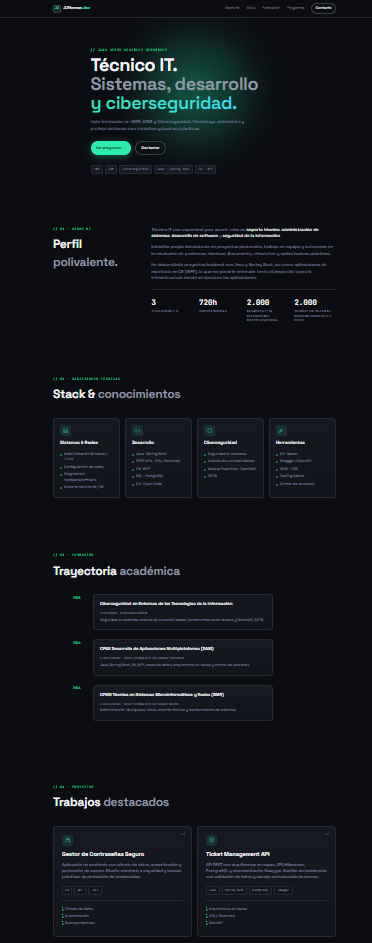
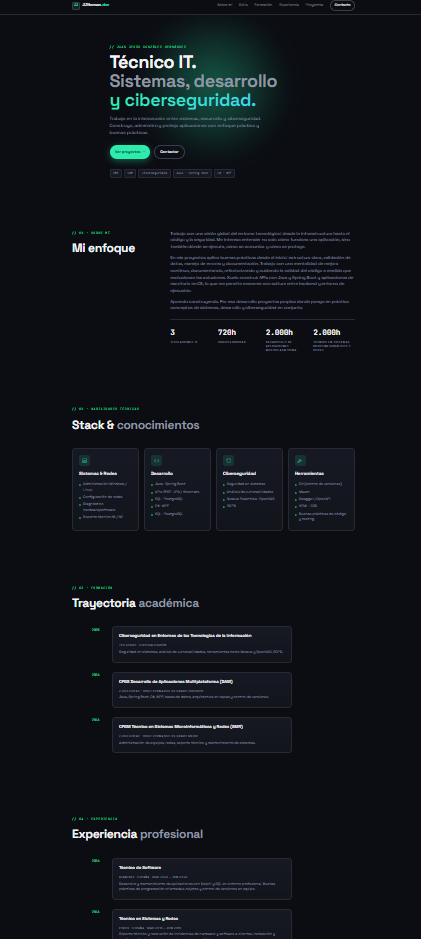
Actualización del Portfolio y CV.

diff --git a/index.html b/index.html
@@ -30,6 +30,7 @@
       <a href="#sobre-mi">Sobre mí</a>
       <a href="#skills">Skills</a>
       <a href="#formacion">Formación</a>
+      <a href="#experiencia">Experiencia</a>
       <a href="#proyectos">Proyectos</a>
       <a href="#contacto" class="nav__cta">Contacto</a>
     </nav>
@@ -51,8 +52,7 @@
       <span class="gradient-text">y ciberseguridad.</span>
     </h1>
     <p class="hero__lead">
-      Triple formación en SMR, DAM y Ciberseguridad.
-      Construyo, administro y protejo sistemas con iniciativa y buenas prácticas.
+        Trabajo en la intersección entre sistemas, desarrollo y ciberseguridad. Construyo, administro y protejo aplicaciones con enfoque práctico y buenas prácticas.
     </p>
     <div class="hero__cta">
       <a href="#proyectos" class="btn btn--primary">Ver proyectos →</a>
@@ -69,25 +69,19 @@
   <div class="container grid-12">
     <div class="col-4">
       <p class="eyebrow">// 01 · Sobre mí</p>
-      <h2 class="section__title">Perfil<br/><span class="muted">polivalente.</span></h2>
+      <h2 class="section__title">Mi enfoque<br/></h2>
     </div>
     <div class="col-8 prose">
       <p>
-        Técnico IT con capacidad para asumir roles en
-        <strong>soporte técnico</strong>,
-        <strong>administración de sistemas</strong>,
-        <strong>desarrollo de software</strong> y
-        <strong>seguridad de la información</strong>.
+        Trabajo con una visión global del entorno tecnológico: desde la infraestructura hasta el código y la seguridad. 
+        Me interesa entender no solo cómo funciona una aplicación, sino también dónde se ejecuta, cómo se comunica y cómo se protege.
       </p>
       <p>
-        Iniciativa propia demostrada en proyectos personales, trabajo en equipo
-        y autonomía en la resolución de problemas técnicos. Documento, refactorizo
-        y aplico buenas prácticas.
+        En mis proyectos aplico buenas prácticas desde el inicio: estructura clara, validación de datos, manejo de errores y documentación. Trabajo con una mentalidad de mejora continua, documentando, refactorizando y cuidando la calidad del código a medida que evolucionan las soluciones. 
+        Suelo construir APIs con Java y Spring Boot y aplicaciones de escritorio en C#, lo que me permite moverme con soltura entre backend y entorno de ejecución.
       </p>
       <p>
-        He desarrollado proyectos backend con Java y Spring Boot, así como aplicaciones de 
-        escritorio en C# (WPF), lo que me permite entender tanto el desarrollo como la 
-        infraestructura donde se ejecutan las aplicaciones.
+        Aprendo construyendo. Por eso desarrollo proyectos propios donde pongo en práctica conceptos de sistemas, desarrollo y ciberseguridad en conjunto.
       </p>
       <div class="stats">
         <div><div class="stats__value">3</div><div class="stats__label">Titulaciones IT</div></div>
@@ -127,10 +121,10 @@
         <h3>Desarrollo</h3>
         <ul>
           <li>Java · Spring Boot</li>
-          <li>REST APIs · JPA / Hibernate</li>
+          <li>APIs REST · JPA / Hibernate</li>
+          <li>SQL · PostgreSQL</li>
           <li>C# · WPF</li>
           <li>SQL · PostgreSQL</li>
-          <li>Git · Clean Code</li>
         </ul>
       </article>
       <article class="card">
@@ -151,11 +145,11 @@
         </div>
         <h3>Herramientas</h3>
         <ul>
-          <li>Git · Maven</li>
+          <li>Git (control de versiones)</li>
+          <li>Maven</li>
           <li>Swagger / OpenAPI</li>
           <li>HTML · CSS</li>
-          <li>Testing básico</li>
-          <li>Control de versiones</li>
+          <li>Buenas prácticas de código y testing</li>
         </ul>
       </article>
     </div>
@@ -198,11 +192,39 @@
   </div>
 </section>
 
+<!-- EXPERIENCE -->
+<section id="experiencia" class="section">
+  <div class="container">
+    <div class="section__head">
+      <p class="eyebrow">// 04 · Experiencia</p>
+      <h2 class="section__title">Experiencia <span class="muted">profesional</span></h2>
+    </div>
+    <ol class="timeline">
+      <li>
+        <span class="timeline__year">2024</span>
+        <div class="timeline__card card">
+          <h3>Técnico de Software</h3>
+          <p class="timeline__meta">Avanzate · España · Mar 2024 – Jun 2024</p>
+          <p class="timeline__detail">Desarrollo y mantenimiento de aplicaciones con Delphi y SQL en entorno profesional. Buenas prácticas de programación orientada a objetos y control de versiones en equipo.</p>
+        </div>
+      </li>
+      <li>
+        <span class="timeline__year">2016</span>
+        <div class="timeline__card card">
+          <h3>Técnico en Sistemas y Redes</h3>
+          <p class="timeline__meta">PCBox · España · Mar 2016 – Jun 2016</p>
+          <p class="timeline__detail">Soporte técnico y resolución de incidencias de hardware y software a clientes. Instalación y configuración de sistemas operativos, redes y periféricos.</p>
+        </div>
+      </li>
+    </ol>
+  </div>
+</section>
+
 <!-- PROJECTS -->
 <section id="proyectos" class="section">
   <div class="container">
     <div class="section__head">
-      <p class="eyebrow">// 04 · Proyectos</p>
+      <p class="eyebrow">// 05 · Proyectos</p>
       <h2 class="section__title">Trabajos <span class="muted">destacados</span></h2>
     </div>
     <div class="projects">
@@ -216,7 +238,7 @@
         <div class="tags">
           <span>C#</span><span>WPF</span><span>.NET</span>
         </div>
-        <ul class="bullets">
+        <ul>
           <li>Cifrado de datos</li>
           <li>Autenticación</li>
           <li>Buenas prácticas</li>
@@ -233,7 +255,7 @@
         <div class="tags">
           <span>Java</span><span>Spring Boot</span><span>PostgreSQL</span><span>Swagger</span>
         </div>
-        <ul class="bullets">
+        <ul>
           <li>Arquitectura en capas</li>
           <li>JPA / Hibernate</li>
           <li>OpenAPI</li>
@@ -248,8 +270,8 @@
   <div class="container">
     <div class="section__head center">
       <p class="eyebrow">// 05 · Contacto</p>
-      <h2 class="section__title">¿Hablamos?</h2>
-      <p class="contact__lead">Puedes contactar conmigo a través de estas plataformas.</p>
+      <h2 class="section__title">¿Conectamos?</h2>
+      <p class="contact__lead">Abierto a oportunidades, colaboración y conversaciones sobre tecnología.</p>
     </div>
     <div class="contact-grid">
       <a class="card contact-card" href="mailto:[email redacted]">
@@ -286,7 +308,7 @@
 
 <footer class="footer">
   <div class="container footer__inner">
-    <p>© <span id="year"></span> Juan Jesús González Hernández· Técnico IT</p>
+    <p>© <span id="year"></span> Juan Jesús González Hernández · Técnico IT</p>
     <p class="muted">Construido con HTML, CSS y JS · Tema oscuro tech minimalista</p>
   </div>
 </footer>

diff --git a/styles.css b/styles.css
@@ -249,9 +249,6 @@ ul, ol { margin: 0; padding: 0; list-style: none; }
   background: var(--bg-elev); border: 1px solid var(--border);
   color: var(--muted);
 }
-.bullets { padding-top: 18px; border-top: 1px solid var(--border); }
-.bullets li { font-size: 12px; color: var(--muted); padding: 3px 0; display: flex; align-items: center; gap: 8px; }
-.bullets li::before { content: ""; width: 4px; height: 4px; border-radius: 50%; background: var(--primary); display: inline-block; }
 
 /* Contact */
 .section--contact { padding-bottom: 80px; }